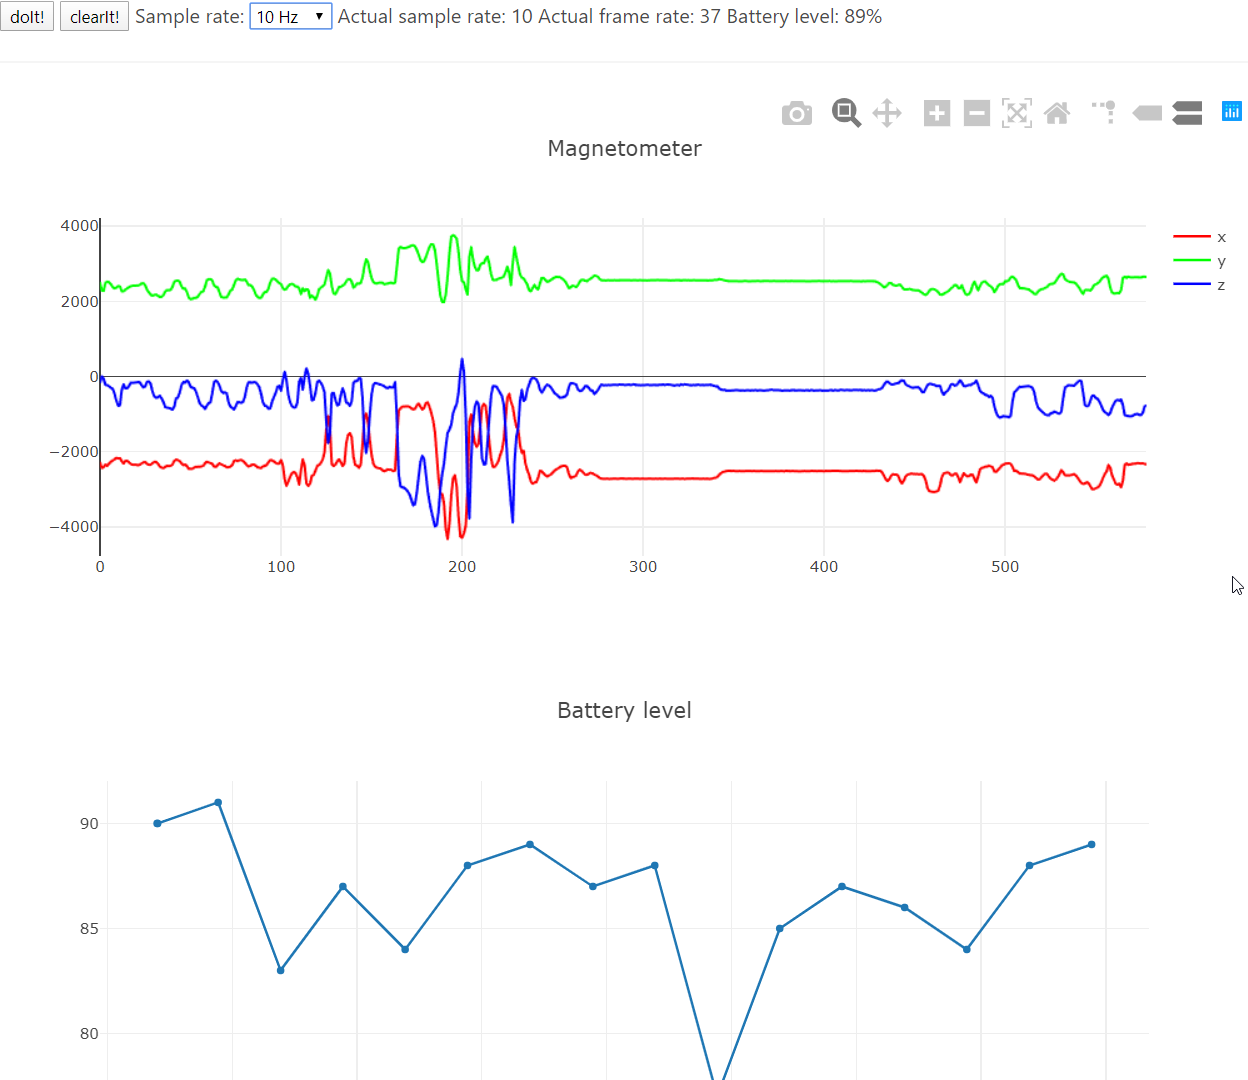
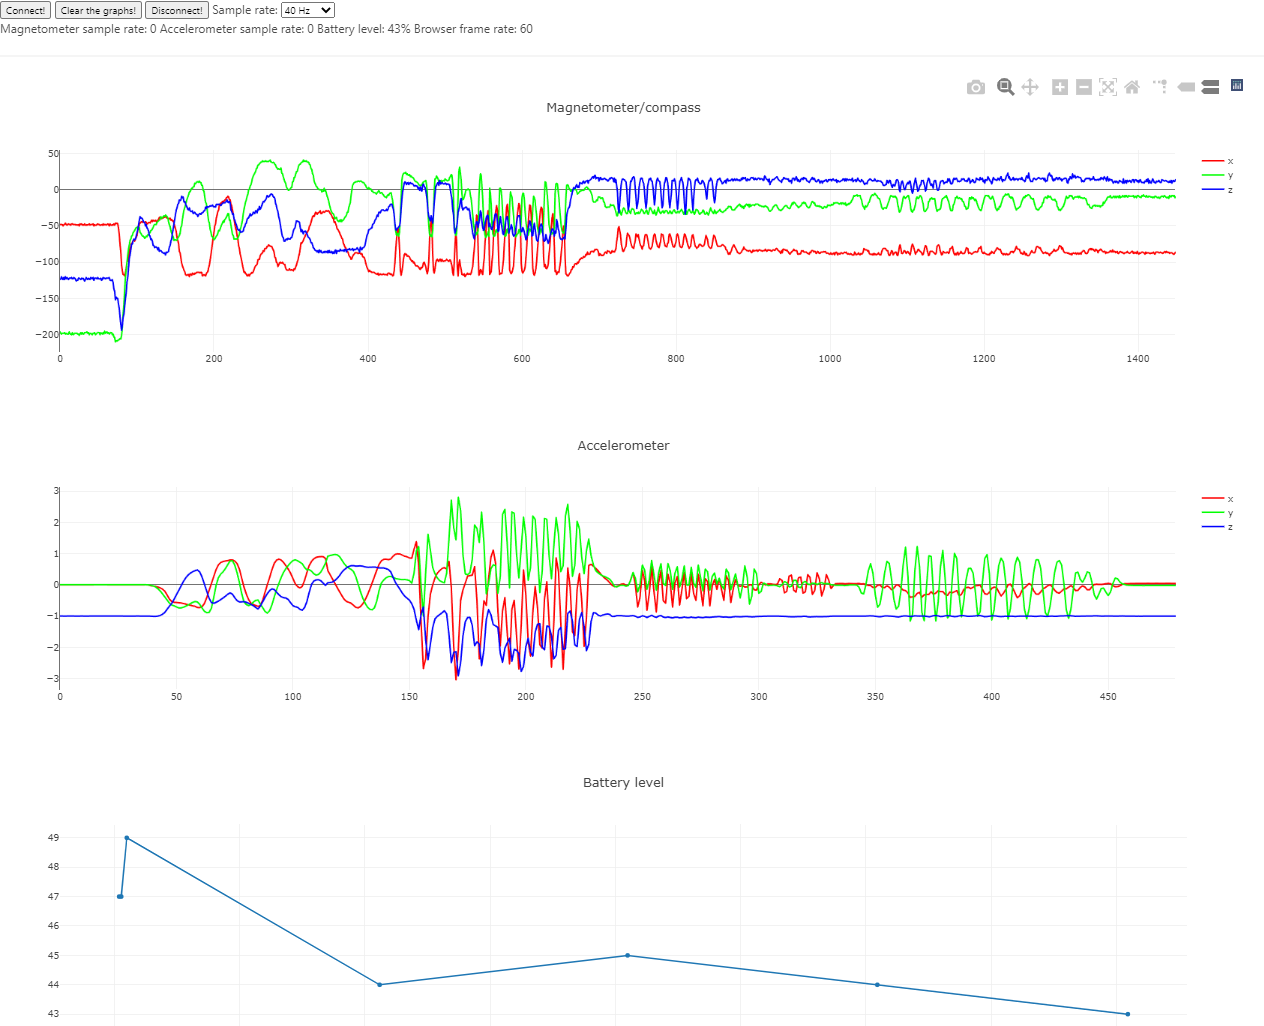
v.0.3: Update to work with Bangle.JS as well

diff --git a/src/receive.js b/src/receive.js
@@ -1,21 +1,24 @@
 // DOM elements
-const graphDiv = document.getElementById('graphDiv')
+const magnetoDiv = document.getElementById('magnetoDiv')
+const acceleroDiv = document.getElementById('acceleroDiv')
 const sampleRateSelect = document.getElementById('sampleRateSelect')
 const sampleRateSpan = document.getElementById('sampleRateSpan')
+const acceleroSampleRateSpan = document.getElementById('acceleroSampleRateSpan')
 const frameRateSpan = document.getElementById('frameRateSpan')
 
 const battLevelSpan = document.getElementById('battLevelSpan')
 const battGraphDiv = document.getElementById('battGraphDiv')
 
 /// BLE things, mainly for debug
-var device, server, service, characteristic, battService, battCharacteristic
+var device, server, service, magnetoCharacteristic, accelCharacteristic, battService, battCharacteristic
 /// to display the actual sample rate
-var sampleCnt = 0, frameCnt = 0
+var sampleCnt = 0, acceleroSampleCnt = 0, frameCnt = 0
 /// x, y, z coordinates sent to Plotly at
 var xq = [], yq = [], zq = []
+var axq = [], ayq = [], azq = []
 
 /// push the data to the temp arrays
-function gotData(evt) {
+function gotMagnetoData(evt) {
     var raw = evt.target.value
     // console.log('evt:', evt, raw)
     var magData = new Int32Array(raw.buffer)
@@ -23,6 +26,16 @@ function gotData(evt) {
     xq.push(magData[0])
     yq.push(magData[1])
     zq.push(magData[2])
+}
+
+function gotAcceleroData(evt) {
+    var raw = evt.target.value
+    // console.log('gotAcceleroData:', evt, raw)
+    var accelData = new Float32Array(raw.buffer)
+    acceleroSampleCnt++
+    axq.push(accelData[0])
+    ayq.push(accelData[1])
+    azq.push(accelData[2])
 }
 
 function showBattLevel(battLevel) {
@@ -45,7 +58,7 @@ function step() {
     frameCnt++
     if (xq.length) {
         Plotly.extendTraces(
-            graphDiv,
+            magnetoDiv,
             {
                 y: [xq, yq, zq],
             },
@@ -55,17 +68,41 @@ function step() {
         yq.length = 0;
         zq.length = 0;
     }
+    if (axq.length) {
+        Plotly.extendTraces(
+            acceleroDiv,
+            {
+                y: [axq, ayq, azq],
+            },
+            [0, 1, 2]
+        );
+        axq.length = 0;
+        ayq.length = 0;
+        azq.length = 0;
+    }
     window.requestAnimationFrame(step)
 }
 
 function setSampleRate(rateInHz) {
-    characteristic && characteristic.writeValue && characteristic.writeValue(new Int8Array([rateInHz]))
+    magnetoCharacteristic && magnetoCharacteristic.writeValue && magnetoCharacteristic.writeValue(new Int8Array([rateInHz]))
+}
+
+function disconnect() {
+    server = server && server.disconnect()
+    device = undefined
+    server = undefined
+    service = undefined
+    magnetoCharacteristic = undefined
+    accelCharacteristic = undefined
+    battService = undefined
+    battCharacteristic = undefined
 }
 
 /// Connect to the Puck
 function doIt() {
+    disconnect();
 
-    navigator.bluetooth.requestDevice({optionalServices: ['f8b23a4d-89ad-4220-8c9f-d81756009f0c', 0x2A19], acceptAllDevices: true})
+    navigator.bluetooth.requestDevice({ optionalServices: ['f8b23a4d-89ad-4220-8c9f-d81756009f0c', 0x2A19], acceptAllDevices: true })
         .then(d => {
             device = d;
             console.debug('device:', device)
@@ -103,45 +140,78 @@ function doIt() {
                 .then(srv => {
                     service = srv
                     console.debug('service:', service)
-                    return service.getCharacteristic('f8b23a4d-89ad-4220-8c9f-d81756009f0c')
+                    return service.getCharacteristics()
                 })
-                .then(ch => {
-                    characteristic = ch
-                    console.debug('characteristic:', characteristic)
-                    ch.addEventListener('characteristicvaluechanged', gotData)
-                    ch.startNotifications()
-
+                .then(chs => {
+                    console.log('characteristics:', chs)
+                    for (let ix = 0; ix < chs.length; ix++) {
+                        const ch = chs[ix];
+                        if (ch.uuid == 'f8b23a4d-89ad-4220-8c9f-d81756009f0c') {
+                            // Puck or Bangle magnetometer
+                            magnetoCharacteristic = ch
+                            ch.addEventListener('characteristicvaluechanged', gotMagnetoData)
+                            ch.startNotifications()
+                            setSampleRate(sampleRateSelect.value)
+                        }
+                        if (ch.uuid == 'f8b23a4d-89ad-4220-8c9f-d81756009f0d') {
+                            // Bangle's accelerometer
+                            accelCharacteristic = ch
+                            ch.addEventListener('characteristicvaluechanged', gotAcceleroData)
+                            ch.startNotifications()
+                        }
+                    }
                 })
         })
 }
 
 /// Create the initial graph & clear it
 function clearIt() {
-    Plotly.newPlot(graphDiv, [{
+    Plotly.newPlot(magnetoDiv, [{
         y: [],
         type: 'scattergl',
         mode: 'lines',
-        line: {color: '#f00'},
+        line: { color: '#f00' },
         name: 'x'
     }, {
         y: [],
         type: 'scattergl',
         mode: 'lines',
-        line: {color: '#0f0'},
+        line: { color: '#0f0' },
         name: 'y'
     }, {
         y: [],
         type: 'scattergl',
         mode: 'lines',
-        line: {color: '#00f'},
+        line: { color: '#00f' },
         name: 'z'
-    }], {title: 'Magnetometer'});
+    }], { title: 'Magnetometer/compass' });
+
+    Plotly.newPlot(acceleroDiv, [{
+        y: [],
+        type: 'scattergl',
+        mode: 'lines',
+        line: { color: '#f00' },
+        name: 'x'
+    }, {
+        y: [],
+        type: 'scattergl',
+        mode: 'lines',
+        line: { color: '#0f0' },
+        name: 'y'
+    }, {
+        y: [],
+        type: 'scattergl',
+        mode: 'lines',
+        line: { color: '#00f' },
+        name: 'z'
+    }], { title: 'Accelerometer' });
 }
 
 // the actual initialization
-sampleRateSelect.onchange = evt => {setSampleRate(evt.target.value)}
+sampleRateSelect.onchange = evt => { setSampleRate(evt.target.value) }
 setInterval(() => {
     sampleRateSpan.innerText = sampleCnt; sampleCnt = 0
+    acceleroSampleRateSpan.innerText = acceleroSampleCnt; acceleroSampleCnt = 0
     frameRateSpan.innerText = frameCnt; frameCnt = 0
 }, 1000)
 window.requestAnimationFrame(step)
@@ -149,4 +219,4 @@ window.requestAnimationFrame(step)
 // first: initialize the main plot
 clearIt()
 // second plot for battery level
-Plotly.plot(battGraphDiv, [{x: [], y: [], mode: "lines+markers"}], {title: 'Battery level'})
+Plotly.plot(battGraphDiv, [{ x: [], y: [], mode: "lines+markers" }], { title: 'Battery level [%]' })

diff --git a/src/BangleStreaming.js b/src/BangleStreaming.js
@@ -1,0 +1,83 @@
+// upload this to the Bangle
+
+var batteryInterval, connected = false;
+
+function onMag(d) {
+  if (connected) {
+    NRF.updateServices({
+      'f8b23a4d-89ad-4220-8c9f-d81756009f0c': {
+        'f8b23a4d-89ad-4220-8c9f-d81756009f0c': {
+          value: new Int32Array([d.x, d.y, d.z]).buffer,
+          notify: true
+        }
+      }
+    })
+  }
+}
+
+function onAccel(d) {
+  if (connected) {
+    NRF.updateServices({
+      'f8b23a4d-89ad-4220-8c9f-d81756009f0c': {
+        'f8b23a4d-89ad-4220-8c9f-d81756009f0d': {
+          value: new Float32Array([d.x, d.y, d.z]).buffer,
+          notify: true
+        }
+      }
+    })
+  }
+}
+
+function updateBattery() {
+  NRF.updateServices({
+    0x2A19: {
+      0x2A19: {
+        notify: true,
+        readable: true,
+        value: [E.getBattery()]
+      }
+    }
+  })
+}
+
+function onInit() {
+  // on connect / disconnect blink the green / red LED turn on / off the magnetometer
+  NRF.on('connect', function () { connected = true; Bangle.setCompassPower(1); })
+  NRF.on('disconnect', function () { connected = false; Bangle.setCompassPower(0); })
+
+  // declare the services
+  NRF.setServices({
+    // Battery level service
+    0x2A19: {
+      0x2A19: {
+        notify: true,
+        readable: true,
+        value: [E.getBattery()]
+      }
+    },
+    // Magneto&accelerometer service
+    'f8b23a4d-89ad-4220-8c9f-d81756009f0c': {
+      'f8b23a4d-89ad-4220-8c9f-d81756009f0c': {
+        description: 'Bangle magnetometer',
+        notify: true,
+        readable: true,
+        value: new Int32Array([0, 0, 0]).buffer,
+        writable: true,
+        onWrite: function (evt) {
+          var d = evt.data && evt.data[0]
+          if ([80, 40, 20, 10, 5].indexOf(d) >= 0) { Bangle.setPollInterval(1000 / d) }
+        }
+      },
+      'f8b23a4d-89ad-4220-8c9f-d81756009f0d': {
+        description: 'Bangle accelerometer',
+        notify: true,
+        readable: true,
+        value: new Float32Array([0, 0, 0, 0, 0]).buffer
+      }
+    }
+  })
+
+  batteryInterval = setInterval(updateBattery, 10000)
+  Bangle.on('accel', onAccel)
+  Bangle.on('mag', onMag)
+}

diff --git a/src/index.html b/src/index.html
@@ -10,8 +10,9 @@
 
 <body>
 
-    <button onclick="doIt()">doIt!</button>
-    <button onclick="clearIt()">clearIt!</button>
+    <button onclick="doIt()">Connect!</button>
+    <button onclick="clearIt()">Clear the graphs!</button>
+    <button onclick="disconnect()">Disconnect!</button>
 
     Sample rate:
     <select id="sampleRateSelect">
@@ -23,13 +24,16 @@
         <option value="0">0 (OFF)</option>
     </select>
 
-    Actual sample rate: <span id="sampleRateSpan">?</span>
-    Actual frame rate: <span id="frameRateSpan">?</span>
+    <br />
+    Magnetometer sample rate: <span id="sampleRateSpan">?</span>
+    Accelerometer sample rate: <span id="acceleroSampleRateSpan">?</span>
     Battery level: <span id="battLevelSpan">?</span>
+    Browser frame rate: <span id="frameRateSpan">?</span>
 
     <hr />
 
-    <div id="graphDiv" style="width: 100%;"></div>
+    <div id="magnetoDiv" style="width: 100%;"></div>
+    <div id="acceleroDiv" style="width: 100%;"></div>
     <div id="battGraphDiv" style="width: 100%;"></div>
 
     <script src="receive.js"></script>

diff --git a/readme.md b/readme.md
@@ -1,16 +1,23 @@
 # Streaming data to the browser with web-bluetooth at 80Hz!
 
-Demo of streaming data from the magnetometer from an Espruino Puck.JS at up to 80 Hz to the browser with Web-Bluetooth and plotting with plotly JS. In real time :)
+Demo of streaming data from the magnetometer from an Espruino Puck.JS / Bangle.JS at up to 80 Hz to the browser with Web-Bluetooth and plotting with plotly JS. In real time :)
 
 Javascript all the way down!
 
-New in v.0.2:
+
+
+## Changelog / release notes:
+
+### v.0.3:
+ - Update to work with Bangle.JS as well
+
+### v.0.2:
  - Implemented battery level service to show how to connect to two characteristics and receive notification
 
 ![sample graph](docs/sample.png)
 
 # Usage
- - Upload the [PuckStreaming.js](src/PuckStreaming.js) to your Puck
+ - Upload the [PuckStreaming.js](src/PuckStreaming.js) to your Puck, or [BangleStreaming.js](src/BangleStreaming.js) to your Bangle
  - Open [index.html](src/index.html) in a browser that supports web Bluetooth (tested with Chrome, and Edge "dev")
  - Press the DoIt button & select your Puck to connect to it
  - Streaming start as soon as you are connected
@@ -19,10 +26,10 @@ New in v.0.2:
 # Code, features
 
 ### Espruino
- - defined a custom BLE service & characteristic that uses notify to "push" the data form the magnetometer
+ - defined a custom BLE service & characteristic that uses notify to "push" the data form the magnetometer (and accelerometer in case of the Bangle)
  - the characteristic is writeable, so sample rate can be changed, or turned off
  - battery level service that auto-updates every 10 seconds
- - button click toggles the LED to quickly alter battery state
+ - button click toggles the LED to quickly alter battery state. Only on Puck, but you can turn on the screen of the Bangle, and that changes battery level.
 
 ### Web-Bluetooth
  - connects to the characteristics from the web page & subscribe to notifications
